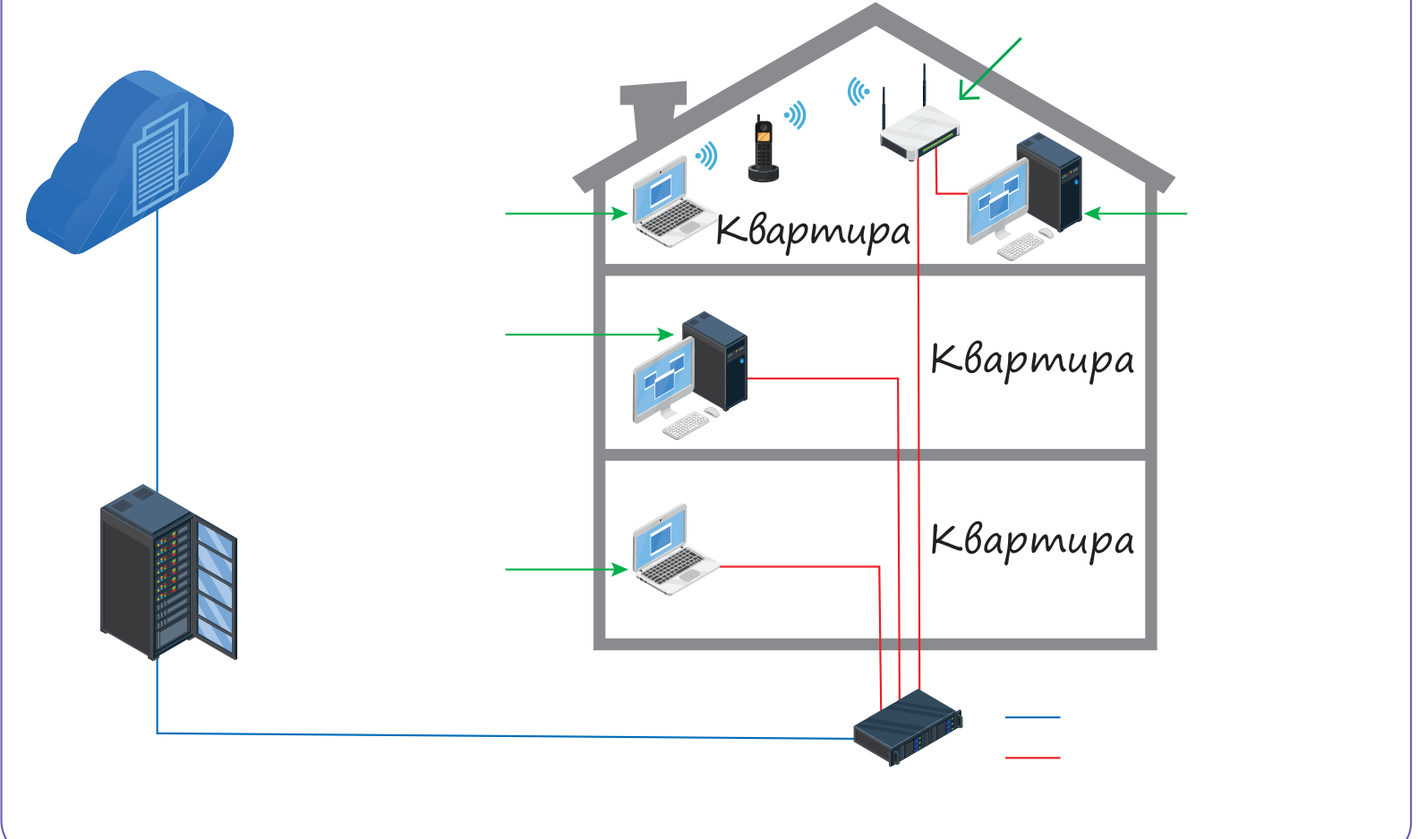
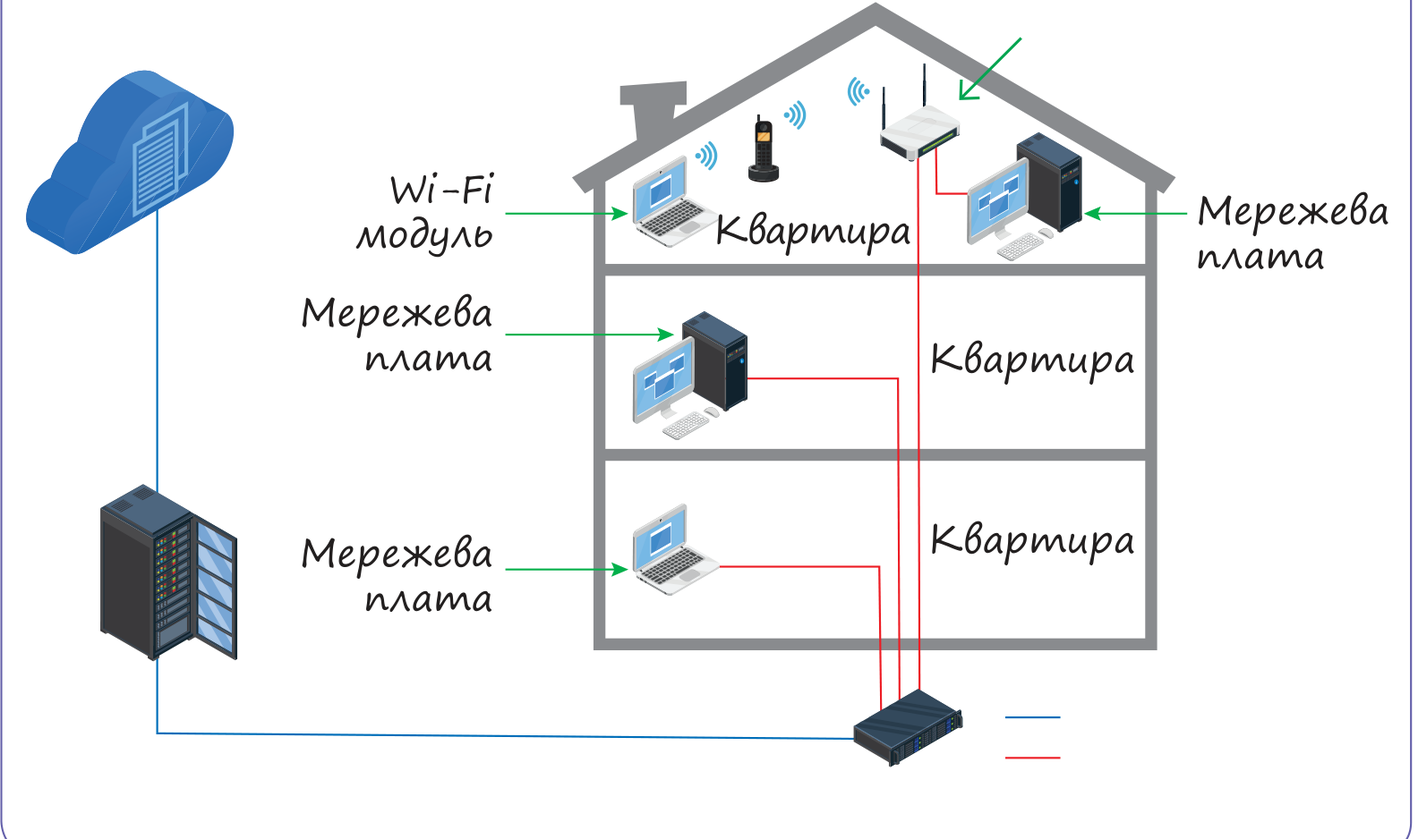
Спростити контрольну для 5 класу
Менше дрібних деталей, прості формулювання, менше варіантів,
схема мережі з підказками, Блискавка без життів і з 15 секундами.

diff --git a/index.html b/index.html
@@ -381,7 +381,7 @@ function confetti() {
 }
 
 /* ===== Стан ===== */
-var DATA_VERSION = '2';
+var DATA_VERSION = '3';
 if (store('imi_ver') !== DATA_VERSION) { try { ['imi_state', 'imi_prog', 'imi_review'].forEach(function (k) { localStorage.removeItem(k); }); } catch (e) {} store('imi_ver', DATA_VERSION); }
 var state = { first: store('imi_first') || '', last: store('imi_last') || '', cls: store('imi_cls') || '', stars: {}, scores: {} };
 try { var saved = JSON.parse(store('imi_state') || '{}'); if (saved && saved.stars) { state.stars = saved.stars; state.scores = saved.scores || {}; } } catch (e) {}
@@ -483,7 +483,7 @@ function showWelcome(msg) {
     if (!first.value.trim() || !last.value.trim() || !cls.value) { err.textContent = 'Заповни ім\'я, прізвище та обери клас, щоб почати місію.'; return; }
     state.first = first.value.trim(); state.last = last.value.trim(); state.cls = cls.value; saveState(); sstore('imi_started', '1'); showMenu();
   }
-  var tips = [['Що це?', 'Контрольна робота з інформатики за § 1–5 підручника: сучасні технології, будова комп\'ютера, інформаційні системи, сигнали й мережі, пошук і перевірка інформації. Це гра з ' + LEVELS.length + ' рівнів на один урок, приблизно 40 хвилин. Сили розподіляй рівномірно.'],
+  var tips = [['Що це?', 'Контрольна робота з інформатики за § 1–5 підручника: сучасні технології, будова комп\'ютера, інформаційні системи, сигнали й мережі, пошук і перевірка інформації. Це гра з ' + LEVELS.length + ' рівнів, розрахована на один урок. Не поспішай і уважно читай завдання.'],
     ['Правила', 'Кожен рівень проходиться лише один раз, повернутися або перепройти його не можна. Якщо браузер закриється або зникне інтернет, відкрий сторінку знову: гра продовжиться з місця зупинки, а зроблені помилки збережуться. Підказок немає, працюй самостійно.'],
     ['Оцінка', 'Коли пройдеш усі рівні, одразу побачиш свою оцінку за 12-бальною шкалою. Результат автоматично потрапить до вчителя й до таблиці лідерів твого класу (там видно лише ім\'я та першу літеру прізвища).'],
     ['Перед стартом', 'Уважно впиши своє ім\'я та прізвище й обери свій клас. Після початку першого рівня змінити їх не можна.']];
@@ -942,13 +942,12 @@ function playStages(done, id, stages) {
 /* § 1. Лабораторія майбутнього */
 var TECH_POOL = ['Штучний інтелект', 'Квантовий комп\'ютер', 'Блокчейн', 'Криптовалюта', 'Ґаджет', 'Валідатор'];
 var TECH = [
-  ['Смартфон розблоковується, коли впізнає обличчя свого власника (FaceID).', 'Штучний інтелект'],
-  ['Працює з найдрібнішими частинками, фотонами та електронами. Кілька математичних задач розв\'язує неймовірно швидко, а для повсякденних справ повільний.', 'Квантовий комп\'ютер'],
-  ['Інформація про всі операції з монетами зв\'язується в «ланцюжок блоків», тому підробити такі гроші неможливо.', 'Блокчейн'],
-  ['Електронні гроші, які не випускає жодна держава. Їх зберігають в електронних «гаманцях», захищених паролем.', 'Криптовалюта'],
-  ['Пристрій у тролейбусі, який перевіряє достовірність твого електронного квитка.', 'Валідатор'],
-  ['Цікава технічна новинка з реальним застосуванням, наприклад фітнес-трекер чи квадрокоптер.', 'Ґаджет'],
-  ['Нейронна мережа навчилася на тисячах прикладів і тепер керує електромобілем на автопілоті.', 'Штучний інтелект']
+  ['Телефон сам впізнає обличчя власника й розблоковується.', 'Штучний інтелект'],
+  ['Дуже потужний комп\'ютер майбутнього, який працює з найдрібнішими частинками — фотонами й електронами.', 'Квантовий комп\'ютер'],
+  ['Технологія, яка записує всі операції з монетами в «ланцюжок блоків», тому їх неможливо підробити.', 'Блокчейн'],
+  ['Електронні гроші, які існують лише в Інтернеті, наприклад біткоїн.', 'Криптовалюта'],
+  ['Пристрій у тролейбусі, який перевіряє твій електронний квиток.', 'Валідатор'],
+  ['Цікава технічна новинка, наприклад фітнес-браслет чи квадрокоптер.', 'Ґаджет']
 ].map(function (t) { return { text: t[0], ok: t[1], opts: [t[1]].concat(others(TECH_POOL, t[1], 3)) }; });
 
 /* § 2. Системний блок (малюнок с. 13) */
@@ -967,151 +966,137 @@ var DEV_ROUNDS = [
   { title: 'Пристрій вводить дані чи виводить їх?', icon: 'screen', cats: ['Пристрої введення', 'Пристрої виведення'], items: [
     ['Клавіатура', 0, 'media/dev-keyboard.jpg'], ['Вебкамера', 0, 'media/dev-webcam.jpg'], ['Сканер', 0, 'media/dev-scanner.jpg'], ['Мікрофон', 0, 'mic'],
     ['Монітор', 1, 'media/dev-monitor.jpg'], ['Принтер', 1, 'media/dev-printer.jpg'], ['Колонки', 1, 'media/dev-speakers.jpg'], ['Навушники', 1, 'media/dev-headphones.jpg']] },
-  { title: 'Яка це пам\'ять?', icon: 'ram', cats: ['Оперативна', 'Постійна', 'Зовнішня'], items: [
-    ['Після вимкнення живлення всі дані з неї стираються', 0], ['Тимчасово зберігає програми, з якими ти зараз працюєш', 0],
-    ['Дані записуються один раз, а зчитуються багато разів', 1], ['Зберігає програму, що запускається відразу після вмикання комп\'ютера', 1],
-    ['Флешка', 2], ['Оптичний диск', 2], ['Вінчестер (жорсткий диск)', 2]] }
+  { title: 'Оперативна пам\'ять чи зовнішня?', icon: 'ram', cats: ['Оперативна пам\'ять', 'Зовнішня пам\'ять'], items: [
+    ['Дані зникають, коли вимкнути комп\'ютер', 0], ['Зберігає програми, з якими ти працюєш саме зараз', 0],
+    ['Флешка', 1], ['Оптичний диск', 1], ['Карта пам\'яті', 1]] }
 ];
 
 /* § 2. Інформаційні системи */
 var PROC = ['Отримання', 'Опрацювання', 'Зберігання', 'Передавання'];
 var SYS_Q = [
   ['Пожежна сигналізація', 'Датчик відчуває дим у кімнаті.', 'Отримання'],
-  ['Пожежна сигналізація', 'Панель керування порівнює кількість диму з нормою і вирішує, що це пожежа.', 'Опрацювання'],
-  ['Пожежна сигналізація', 'Час і місце спрацювання записуються в журнал подій панелі.', 'Зберігання'],
-  ['Пожежна сигналізація', 'Сирена та світлові сповіщувачі попереджають людей про небезпеку.', 'Передавання'],
-  ['Смарт-годинник', 'Акселерометр і гіроскоп фіксують, як рухається людина.', 'Отримання'],
-  ['Смарт-годинник', 'Процесор підраховує, скільки кроків зроблено за день.', 'Опрацювання'],
-  ['Смарт-годинник', 'Годинник пам\'ятає результати тренувань за весь тиждень.', 'Зберігання'],
+  ['Пожежна сигналізація', 'Сигналізація «вирішує»: диму забагато, це пожежа.', 'Опрацювання'],
+  ['Пожежна сигналізація', 'Час спрацювання записується в журнал подій.', 'Зберігання'],
+  ['Пожежна сигналізація', 'Сирена попереджає людей про небезпеку.', 'Передавання'],
+  ['Смарт-годинник', 'Датчики годинника відчувають, як рухається людина.', 'Отримання'],
+  ['Смарт-годинник', 'Годинник підраховує, скільки кроків зроблено за день.', 'Опрацювання'],
+  ['Смарт-годинник', 'Годинник пам\'ятає результати тренувань за тиждень.', 'Зберігання'],
   ['Смарт-годинник', 'Годинник надсилає звіт про тренування на смартфон.', 'Передавання']
 ].map(function (t) { return { head: t[0], text: t[1], ok: t[2], opts: PROC, fixed: true }; });
 var SYS_SORT = [{ title: 'Які це системи?', icon: 'puzzle', cats: ['Біологічні', 'Технічні', 'Соціальні'], items: [['Мурашник', 0], ['Клітина', 0], ['Ноутбук', 1], ['Пожежна сигналізація', 1], ['Шкільний клас', 2], ['Фан-клуб гурту', 2]] }];
 
 /* § 3. Сигнали й канали */
 var SIG_ROUNDS = [
-  { title: 'Яким сигналом передає дані цей канал зв\'язку?', icon: 'wave', cats: ['Спалахи світла', 'Електричні імпульси', 'Радіохвилі'], items: [
-    ['Оптоволоконний кабель', 0], ['Вита пара', 1], ['Коаксіальний кабель', 1], ['ADSL (телефонна лінія)', 1],
-    ['Wi-Fi', 2], ['Bluetooth', 2], ['Супутниковий зв\'язок', 2], ['Мобільний зв\'язок', 2]] },
-  { title: 'Яким органом чуття ми сприймаємо це повідомлення?', icon: 'globe', cats: ['Візуальні', 'Звукові', 'Нюхові', 'Смакові', 'Тактильні'], items: [
+  { title: 'Що передає дані в цьому каналі зв\'язку?', icon: 'wave', cats: ['Світло', 'Електричний струм', 'Радіохвилі'], items: [
+    ['Оптоволоконний кабель', 0], ['Вита пара (мережевий кабель)', 1], ['Wi-Fi', 2], ['Bluetooth', 2], ['Мобільний зв\'язок', 2]] },
+  { title: 'Яким органом чуття ми сприймаємо це повідомлення?', icon: 'globe', cats: ['Зір', 'Слух', 'Нюх', 'Смак', 'Дотик'], items: [
     ['Спів птахів', 1], ['Жест «Увага!»', 0], ['Сигнал світлофора', 0], ['Солоний смак супу', 3], ['Запах свіжого хліба', 2], ['Шорстка кора дерева під пальцями', 4]] }
 ];
 
 /* § 3. Збудуй мережу (схема с. 34, фото с. 30) */
-var LAN = { img: 'media/lan-scheme.png', alt: 'Схема локальної мережі в будинку з підключенням до Інтернету, підписи прибрано', q: 'Схема мережі, позначка',
+var LAN = { img: 'media/lan-scheme.png', alt: 'Схема локальної мережі в будинку з підключенням до Інтернету, частину підписів прибрано', q: 'Схема мережі, позначка',
   caption: 'Схема «Приклад організації локальної мережі з підключенням до інтернету», підручник, § 3, с. 34',
-  lead: 'З підписів на схемі з підручника зникли слова. Поверни їх на місце! Один підпис можна використати кілька разів, а деякі підписи зайві.',
+  lead: 'Зі схеми з підручника зникли шість підписів. Поверни їх на місце! Два підписи зайві.',
   slots: [
-    { x: 11.1, y: 6, ans: 'Інтернет' }, { x: 85.7, y: 6, ans: 'Модем із Wi-Fi-роутером' }, { x: 30.4, y: 25.1, ans: 'Wi-Fi-модуль', lp: 'l' },
-    { x: 91.7, y: 27.8, ans: 'Мережева плата' }, { x: 28.4, y: 39.8, ans: 'Мережева плата', lp: 'l' }, { x: 28.4, y: 68.7, ans: 'Мережева плата', lp: 'l' },
-    { x: 19.1, y: 82.4, ans: 'Провайдер' }, { x: 58.3, y: 94, ans: 'Комутатор', lp: 'r' }, { x: 40, y: 90, ans: 'Оптоволокно', lp: 't' }, { x: 64.6, y: 56, ans: 'Вита пара', lp: 'r' }],
-  bank: ['Інтернет', 'Провайдер', 'Комутатор', 'Модем із Wi-Fi-роутером', 'Wi-Fi-модуль', 'Мережева плата', 'Оптоволокно', 'Вита пара', 'Сканер', 'Коаксіальний кабель', 'Блок живлення'] };
-var NET_POOL = ['Мережева плата', 'Комутатор', 'Модем', 'Wi-Fi-адаптер', 'Мережевий кабель'];
+    { x: 11.1, y: 6, ans: 'Інтернет' }, { x: 85.7, y: 6, ans: 'Модем із Wi-Fi-роутером' }, { x: 19.1, y: 82.4, ans: 'Провайдер' },
+    { x: 58.3, y: 94, ans: 'Комутатор', lp: 'r' }, { x: 40, y: 90, ans: 'Оптоволокно', lp: 't' }, { x: 64.6, y: 56, ans: 'Вита пара', lp: 'r' }],
+  bank: ['Інтернет', 'Провайдер', 'Комутатор', 'Модем із Wi-Fi-роутером', 'Оптоволокно', 'Вита пара', 'Сканер', 'Принтер'] };
+var NET_POOL = ['Мережева плата', 'Комутатор', 'Мережевий кабель'];
 var NET_Q = [
-  ['net-nic', 'Мережева плата'], ['net-switch', 'Комутатор'], ['net-modem', 'Модем'], ['net-wifi', 'Wi-Fi-адаптер'], ['net-cable', 'Мережевий кабель']
-].map(function (t) { return { head: 'Впізнай обладнання на фото з підручника (с. 30)', img: 'media/' + t[0] + '.jpg', alt: 'Мережеве обладнання', text: 'Що це за пристрій?', ok: t[1], opts: [t[1]].concat(others(NET_POOL, t[1], 3)) }; })
+  ['net-nic', 'Мережева плата'], ['net-switch', 'Комутатор'], ['net-cable', 'Мережевий кабель']
+].map(function (t) { return { head: 'Впізнай обладнання на фото з підручника (с. 30)', img: 'media/' + t[0] + '.jpg', alt: 'Мережеве обладнання', text: 'Що це?', ok: t[1], opts: NET_POOL }; })
 .concat([
   ['Смартфон з\'єднано з бездротовими навушниками.', 'Персональна'],
   ['Комп\'ютери шкільного кабінету інформатики з\'єднані між собою.', 'Локальна'],
   ['Мережа об\'єднує школи й бібліотеки одного міста.', 'Міська'],
-  ['Мережа охоплює території багатьох країн і континентів.', 'Глобальна']
+  ['Мережа охоплює весь світ.', 'Глобальна']
 ].map(function (t) { return { head: 'Яка це мережа за територією?', text: t[0], ok: t[1], opts: ['Персональна', 'Локальна', 'Міська', 'Глобальна'], fixed: true }; }));
 
 /* § 1–3. Машина часу */
 var TIME_ROUNDS = [
-  { title: 'Від найдавнішої події до найновішої', icon: 'clock', how: 'Спершу натисни найдавнішу подію, наприкінці найновішу.', items: [
-    { t: 'Шість жінок програмують перший електронний комп\'ютер ENIAC' }, { t: 'Відкривається перший у світі комерційний центр опрацювання даних (дата-центр)' },
-    { t: 'Народжується український Інтернет: з\'являється домен .UA' }, { t: 'В Україні починають впроваджувати мобільний інтернет 4G' }, { t: 'Запускають першу групу супутників Starlink' }] },
-  { title: 'Від найповільнішого мобільного інтернету до найшвидшого', icon: 'phone', how: 'Значок у смартфоні показує технологію передавання даних.', items: [
-    { big: 'E', t: 'Значок E' }, { big: '3G', t: 'Значок 3G' }, { big: 'H+', t: 'Значок H+' }, { big: '4G', t: 'Значок 4G' }, { big: '5G', t: 'Значок 5G' }] },
-  { title: 'Як змінювалися комп\'ютери (схема на с. 22)', icon: 'cpu', how: 'Від найстаріших до найсучасніших.', items: [
-    { t: 'Великі комп\'ютери завбільшки з шафу' }, { t: 'Настільні персональні комп\'ютери' }, { t: 'Ноутбуки' }, { t: 'Смартфони' }] }
+  { title: 'Як змінювалися комп\'ютери (схема на с. 22)', icon: 'cpu', how: 'Спершу натисни найстаріші, наприкінці найсучасніші.', items: [
+    { t: 'Великі комп\'ютери завбільшки з шафу' }, { t: 'Настільні персональні комп\'ютери' }, { t: 'Ноутбуки' }, { t: 'Смартфони' }] },
+  { title: 'Від найповільнішого мобільного інтернету до найшвидшого', icon: 'phone', how: 'Такі значки показує смартфон поруч зі смужками зв\'язку.', items: [
+    { big: 'E', t: 'Значок E' }, { big: '3G', t: 'Значок 3G' }, { big: '4G', t: 'Значок 4G' }, { big: '5G', t: 'Значок 5G' }] }
 ];
 
 /* § 4. Пошуковий детектив */
 var SEARCH_ORDER = [
-  { title: 'Шлях вебсторінки: що відбувається після введення адреси?', icon: 'browser', how: 'Від першого кроку до останнього.', items: [
-    { t: 'Ти вводиш адресу вебсторінки в рядок браузера' }, { t: 'DNS перетворює адресу на цифрову' }, { t: 'Запит потрапляє на потрібний вебсервер' },
-    { t: 'Вебсервер видає потрібний документ' }, { t: 'Браузер показує вебсторінку на екрані' }] },
-  { title: 'Алгоритм пошуку інформації', icon: 'magnifier', how: 'Від першого кроку до останнього.', items: [
-    { t: 'Сформулювати ключові слова' }, { t: 'Увести їх у поле пошукового запиту' }, { t: 'Натиснути кнопку «Пошук» або Enter' },
-    { t: 'Переглянути описи посилань у списку' }, { t: 'Відкрити потрібне посилання або уточнити запит' }] }
+  { title: 'Що відбувається, коли ти відкриваєш сайт?', icon: 'browser', how: 'Від першого кроку до останнього.', items: [
+    { t: 'Ти вводиш адресу сайту в браузері' }, { t: 'DNS перетворює назву сайту на цифрову адресу' }, { t: 'Запит потрапляє на вебсервер' },
+    { t: 'Вебсервер надсилає потрібну сторінку' }, { t: 'Браузер показує сторінку на екрані' }] },
+  { title: 'Як шукати інформацію в Інтернеті', icon: 'magnifier', how: 'Від першого кроку до останнього.', items: [
+    { t: 'Придумати ключові слова' }, { t: 'Ввести їх у рядок пошуку' }, { t: 'Натиснути «Пошук» або Enter' }, { t: 'Переглянути результати й відкрити потрібне посилання' }] }
 ];
 var SEARCH_Q = [
-  { head: 'Обери найкращий пошуковий запит', view: 'query', text: 'Треба знайти сторінки з точною фразою: Ніколи не соромся запитувати про те, чого не знаєш.', ok: '"Ніколи не соромся запитувати"', opts: ['"Ніколи не соромся запитувати"', 'Ніколи не соромся запитувати', 'соромся', 'Ніколи -соромся'] },
-  { head: 'Обери найкращий пошуковий запит', view: 'query', text: 'Потрібні сторінки, на яких обов\'язково є обидва слова: «комп\'ютер» і «лопата».', ok: '+комп\'ютер +лопата', opts: ['+комп\'ютер +лопата', 'комп\'ютер -лопата', 'лопата', '-комп\'ютер -лопата'] },
-  { head: 'Обери найкращий пошуковий запит', view: 'query', text: 'Тобі цікава тварина ягуар, а сторінки про автомобілі «Ягуар» заважають.', ok: 'ягуар тварина -автомобіль', opts: ['ягуар тварина -автомобіль', 'ягуар', 'ягуар +автомобіль', '"ягуар автомобіль"'] },
-  { head: 'Розбери адресу сайту на домени', view: 'addr', fixed: true, text: 'Натисни домен 1-го рівня (кореневий).', ok: 'ua', opts: ['wiki', 'hosting', 'ua'] },
-  { head: 'Розбери адресу сайту на домени', view: 'addr', fixed: true, text: 'Натисни домен 2-го рівня.', ok: 'hosting', opts: ['wiki', 'hosting', 'ua'] },
-  { head: 'Розбери адресу сайту на домени', view: 'addr', fixed: true, text: 'Натисни домен 3-го рівня.', ok: 'wiki', opts: ['wiki', 'hosting', 'ua'] },
-  { head: 'Розберися в термінах', text: 'Google Chrome, Mozilla Firefox, Opera, Safari, Edge — це…', ok: 'Браузери', opts: ['Браузери', 'Пошукові системи', 'Вебсервери', 'Провайдери'] },
-  { head: 'Розберися в термінах', text: 'Як називається програма, яка постійно збирає дані з усього Інтернету для пошукової служби?', ok: 'Пошуковий робот (павук)', opts: ['Пошуковий робот (павук)', 'Індексатор', 'Браузер', 'Вебінтерфейс'] },
-  { head: 'Розберися в термінах', text: 'Сайт має домен .gov. Що це за ресурс?', ok: 'Державний', opts: ['Державний', 'Освітній', 'Комерційний', 'Розважальний'] },
-  { head: 'Розберися в термінах', text: 'Хто в Інтернеті надсилає запити, а хто їх виконує?', ok: 'Клієнт надсилає, сервер виконує', opts: ['Клієнт надсилає, сервер виконує', 'Сервер надсилає, клієнт виконує', 'Браузер надсилає, провайдер виконує', 'Роутер надсилає, комутатор виконує'] }
+  { head: 'Обери найкращий пошуковий запит', view: 'query', text: 'Треба знайти точну фразу: Ніколи не соромся запитувати.', ok: '"Ніколи не соромся запитувати"', opts: ['"Ніколи не соромся запитувати"', 'Ніколи не соромся запитувати', 'соромся'] },
+  { head: 'Обери найкращий пошуковий запит', view: 'query', text: 'На сторінці обов\'язково мають бути обидва слова: «комп\'ютер» і «лопата».', ok: '+комп\'ютер +лопата', opts: ['+комп\'ютер +лопата', 'комп\'ютер -лопата', 'лопата'] },
+  { head: 'Обери найкращий пошуковий запит', view: 'query', text: 'Тобі потрібна тварина ягуар, а не автомобіль «Ягуар».', ok: 'ягуар тварина -автомобіль', opts: ['ягуар тварина -автомобіль', 'ягуар +автомобіль', 'ягуар'] },
+  { head: 'Адреса сайту', view: 'addr', fixed: true, text: 'Натисни частину адреси, яка показує, що сайт український (домен 1-го рівня).', ok: 'ua', opts: ['wiki', 'hosting', 'ua'] },
+  { head: 'Розберися в термінах', text: 'Google Chrome, Firefox, Opera, Safari — це…', ok: 'Браузери', opts: ['Браузери', 'Пошукові системи', 'Провайдери'] },
+  { head: 'Розберися в термінах', text: 'Сайт має домен .gov. Що це за сайт?', ok: 'Державний', opts: ['Державний', 'Освітній', 'Розважальний'] },
+  { head: 'Розберися в термінах', text: 'Хто в Інтернеті надсилає запити, а хто їх виконує?', ok: 'Клієнт надсилає, сервер виконує', opts: ['Клієнт надсилає, сервер виконує', 'Сервер надсилає, клієнт виконує'] }
 ];
 
 /* § 5. Фейк-детектор */
+var INFO_OPTS = ['Застаріла', 'Неповна', 'Неправдива', 'Лише чиясь думка'];
 var FAKE_Q = [
-  { head: 'Знайди тривожні сигнали в дописі (с. 62)', view: 'post', multi: true, pts: 4, fixed: true,
-    text: 'Познач усі частини допису, які мають насторожити. Звичайні речення не позначай: за кожну помилку мінус бал.',
-    ok: ['Увага! Максимальний перепост!!!', 'Чи знаєте ви, що у світі залишилося всього 800 деревних восьминогів, які живуть на деревах?', 'Усі небайдужі можуть допомогти: перерахуйте гроші на благодійний рахунок 0000 0000 0000 0000.', 'Автор допису та дата публікації не вказані.'],
-    opts: ['Увага! Максимальний перепост!!!', 'Чи знаєте ви, що у світі залишилося всього 800 деревних восьминогів, які живуть на деревах?', 'Восьминоги належать до молюсків.', 'Усі небайдужі можуть допомогти: перерахуйте гроші на благодійний рахунок 0000 0000 0000 0000.', 'Ми відповідальні за нашу планету і тих, хто на ній мешкає.', 'Автор допису та дата публікації не вказані.'] },
-  { head: 'Як перевірити, чи інформація достовірна?', multi: true, pts: 3, text: 'Обери всі правильні способи перевірки. За кожну помилку мінус бал.',
-    ok: ['Перевірити інформацію в інших джерелах', 'З\'ясувати, хто автор і коли опубліковано', 'Звернути увагу на домен сайту (.gov, .edu, .com)'],
-    opts: ['Перевірити інформацію в інших джерелах', 'З\'ясувати, хто автор і коли опубліковано', 'Звернути увагу на домен сайту (.gov, .edu, .com)', 'Порахувати, скільки людей вподобали допис', 'Одразу переслати друзям, хай вони перевірять', 'Повірити, бо написано великими літерами'] },
-  { head: 'Судова справа (с. 55): факт чи судження?', fixed: true, text: 'Прокурор: «Маю відео з камер спостереження, яке зафіксувало злочинця та його дії».', ok: 'Факт', opts: ['Факт', 'Судження'] },
+  { head: 'Знайди підозрілі місця в дописі (с. 62)', view: 'post', multi: true, pts: 4, fixed: true,
+    text: 'Познач усі підозрілі частини допису. Звичайні речення не позначай: за кожну помилку мінус бал.',
+    ok: ['Увага! Максимальний перепост!!!', 'Чи знаєте ви, що у світі залишилося всього 800 восьминогів, які живуть на деревах?', 'Усі небайдужі можуть допомогти: перерахуйте гроші на рахунок 0000 0000 0000 0000.', 'Автор допису та дата не вказані.'],
+    opts: ['Увага! Максимальний перепост!!!', 'Чи знаєте ви, що у світі залишилося всього 800 восьминогів, які живуть на деревах?', 'Восьминоги належать до молюсків.', 'Усі небайдужі можуть допомогти: перерахуйте гроші на рахунок 0000 0000 0000 0000.', 'Ми відповідальні за нашу планету.', 'Автор допису та дата не вказані.'] },
+  { head: 'Як перевірити, чи інформація правдива?', multi: true, pts: 2, text: 'Обери всі правильні способи. За кожну помилку мінус бал.',
+    ok: ['Пошукати цю інформацію в інших джерелах', 'Подивитися, хто автор і коли це написано'],
+    opts: ['Пошукати цю інформацію в інших джерелах', 'Подивитися, хто автор і коли це написано', 'Порахувати, скільки людей вподобали допис', 'Повірити, бо написано великими літерами'] },
+  { head: 'Судова справа (с. 55): факт чи судження?', fixed: true, text: 'Прокурор: «Маю відео з камер спостереження, яке зафіксувало злочинця».', ok: 'Факт', opts: ['Факт', 'Судження'] },
   { head: 'Судова справа (с. 55): факт чи судження?', fixed: true, text: 'Брат підсудного: «Підсудний — гарна людина».', ok: 'Судження', opts: ['Факт', 'Судження'] },
-  { head: 'Судова справа (с. 55): факт чи судження?', fixed: true, text: 'Адвокат: «Підсудний раніше не скоював протизаконних учинків».', ok: 'Факт', opts: ['Факт', 'Судження'] },
-  { head: 'Судова справа (с. 55): факт чи судження?', fixed: true, text: 'Глядач у залі: «Цей суддя найсправедливіший у світі».', ok: 'Судження', opts: ['Факт', 'Судження'] },
-  { head: 'Чого бракує цій інформації?', fixed: true, text: 'Прогноз погоди на вчорашній день.', ok: 'Актуальності', opts: ['Актуальності', 'Повноти', 'Достовірності', 'Об\'єктивності'] },
-  { head: 'Чого бракує цій інформації?', fixed: true, text: 'Рецепт торта, у якому не написано, скільки брати борошна й цукру.', ok: 'Повноти', opts: ['Актуальності', 'Повноти', 'Достовірності', 'Об\'єктивності'] },
-  { head: 'Чого бракує цій інформації?', fixed: true, text: '«Закопай монетку ввечері, а вранці тут буде ціле поле грошей!»', ok: 'Достовірності', opts: ['Актуальності', 'Повноти', 'Достовірності', 'Об\'єктивності'] },
-  { head: 'Чого бракує цій інформації?', fixed: true, text: 'Режисер про власний фільм: «Це найкращий фільм в історії кіно!»', ok: 'Об\'єктивності', opts: ['Актуальності', 'Повноти', 'Достовірності', 'Об\'єктивності'] }
+  { head: 'Судова справа (с. 55): факт чи судження?', fixed: true, text: 'Глядач у залі: «Цей суддя найкращий у світі».', ok: 'Судження', opts: ['Факт', 'Судження'] },
+  { head: 'Яка це інформація?', fixed: true, text: 'Прогноз погоди на вчорашній день.', ok: 'Застаріла', opts: INFO_OPTS },
+  { head: 'Яка це інформація?', fixed: true, text: 'Рецепт торта, у якому не написано, скільки брати борошна й цукру.', ok: 'Неповна', opts: INFO_OPTS },
+  { head: 'Яка це інформація?', fixed: true, text: '«Закопай монетку ввечері, а вранці виросте ціле поле грошей!»', ok: 'Неправдива', opts: INFO_OPTS },
+  { head: 'Яка це інформація?', fixed: true, text: 'Режисер про власний фільм: «Це найкращий фільм в історії кіно!»', ok: 'Лише чиясь думка', opts: INFO_OPTS }
 ];
 
 /* § 1–5. Бос: Блискавка */
-var BLITZ_SEC = 10;
+var BLITZ_SEC = 15, BLITZ_N = 10;
 var BLITZ = [
-  ['Wi-Fi роутери працюють на частотах 2,4 і 5 ГГц.', true],
-  ['На частоті 5 ГГц Wi-Fi передає дані швидше, але на меншу відстань, ніж на 2,4 ГГц.', true],
+  ['Wi-Fi — це бездротовий зв\'язок.', true],
   ['Всесвітня павутина WWW та Інтернет — це одне й те саме.', false],
-  ['Штучний інтелект може мати почуття, як людина.', false],
-  ['Біткоїн — найперша і найпопулярніша криптовалюта.', true],
-  ['Після вимкнення живлення дані з оперативної пам\'яті зникають.', true],
+  ['Штучний інтелект має почуття, як людина.', false],
+  ['Біткоїн — це криптовалюта.', true],
+  ['Коли вимкнути комп\'ютер, дані з оперативної пам\'яті зникають.', true],
   ['Браузер — це пошукова система.', false],
-  ['Роутер має вбудовану пам\'ять, тому його можна назвати мінікомп\'ютером.', true],
-  ['Супутниковий зв\'язок забезпечує більшість телекомунікацій у світі.', false],
-  ['Технологія 5G приблизно у 20 разів швидша за 4G.', true],
+  ['Провайдер — компанія, яка надає доступ до Інтернету.', true],
   ['Якщо малюнок знайдено в Інтернеті, під ним можна поставити своє ім\'я.', false],
-  ['Блок живлення перетворює напругу 220 В на меншу, потрібну всередині комп\'ютера.', true],
-  ['Bluetooth з\'єднує пристрої на великій відстані, наприклад між містами.', false],
-  ['Найстаріша служба Інтернету, яка досі популярна, — електронна пошта.', true]
+  ['Флешка зберігає дані навіть без живлення.', true],
+  ['Bluetooth з\'єднує пристрої в різних містах.', false],
+  ['Електронна пошта — одна зі служб Інтернету.', true],
+  ['Усе, що написано в Інтернеті, — правда.', false]
 ];
 function playBlitz(done, id, title) {
-  var P = getProg(id) || { ids: shuffle(BLITZ.map(function (x, k) { return k; })).slice(0, 10), i: 0, score: 0, lives: 3, open: false, rows: [] };
+  var P = getProg(id) || { ids: shuffle(BLITZ.map(function (x, k) { return k; })).slice(0, BLITZ_N), i: 0, score: 0, open: false, rows: [] };
   if (!P.rows) P.rows = [];
-  if (P.open) { var pq = BLITZ[P.ids[P.i]]; P.rows.push({ q: pq[0], mine: 'сторінку оновлено', right: pq[1] ? 'Правда' : 'Неправда', ok: false }); P.lives--; P.i++; P.open = false; }
-  var qs = P.ids.map(function (k) { return BLITZ[k]; }), i = P.i, score = P.score, lives = P.lives, locked = false, left, box = h('div');
+  if (P.open) { var pq = BLITZ[P.ids[P.i]]; P.rows.push({ q: pq[0], mine: 'сторінку оновлено', right: pq[1] ? 'Правда' : 'Неправда', ok: false }); P.i++; P.open = false; }
+  var qs = P.ids.map(function (k) { return BLITZ[k]; }), i = P.i, score = P.score, locked = false, left, box = h('div');
   setProg(id, P);
-  function end() { stopTimers(); P.i = qs.length; setProg(id, P); saveReview(id, P.rows); done(score); }
-  function next() { i++; P.i = i; P.score = score; P.lives = lives; P.open = false; setProg(id, P); if (i >= qs.length || lives <= 0) end(); else show(); }
+  function end() { stopTimers(); saveReview(id, P.rows); done(score); }
+  function next() { i++; P.i = i; P.score = score; P.open = false; setProg(id, P); if (i >= qs.length) end(); else show(); }
   function show() {
     stopTimers(); locked = false; left = BLITZ_SEC; P.open = true; setProg(id, P);
     var q = qs[i], bar = h('i'), fb = h('div', { class: 'fb', 'aria-live': 'polite' });
     function answer(val, timeout) {
-      if (locked) return; locked = true; stopTimers(); var ok = !timeout && val === q[1]; if (ok) score++; else lives--;
-      P.rows.push({ q: q[0], mine: timeout ? 'час вийшов' : (val ? 'Правда' : 'Неправда'), right: q[1] ? 'Правда' : 'Неправда', ok: ok }); P.score = score; P.lives = lives; P.open = false; setProg(id, P);
-      fb.textContent = timeout ? 'Час вийшов.' : 'Відповідь прийнято.'; setTimeout(next, 700);
+      if (locked) return; locked = true; stopTimers(); var ok = !timeout && val === q[1]; if (ok) score++;
+      P.rows.push({ q: q[0], mine: timeout ? 'час вийшов' : (val ? 'Правда' : 'Неправда'), right: q[1] ? 'Правда' : 'Неправда', ok: ok }); P.score = score; P.open = false; setProg(id, P);
+      fb.textContent = timeout ? 'Час вийшов.' : 'Відповідь прийнято.'; setTimeout(next, 600);
     }
-    var hearts = h('span', { class: 'hearts', 'aria-label': 'Життів: ' + lives });
-    for (var k = 0; k < 3; k++) hearts.appendChild(h('span', { class: k < lives ? 'on' : '', text: '♥' }));
     box.innerHTML = '';
-    [h('div', { class: 'row', style: 'justify-content:space-between' }, [h('span', { class: 'muted', text: 'Питання ' + (i + 1) + ' з ' + qs.length + '. Правильно: ' + score }), hearts]),
+    [h('div', { class: 'muted', text: 'Питання ' + (i + 1) + ' з ' + qs.length }),
      h('div', { class: 'bar' }, [bar]), h('div', { class: 'card bigq' }, [ico('bolt', 'lg', '#fb923c'), h('span', { text: q[0] })]),
      h('div', { class: 'row' }, [h('button', { class: 'btn ok', style: 'flex:1', text: 'Правда', onclick: function () { answer(true, false); } }), h('button', { class: 'btn bad', style: 'flex:1', text: 'Неправда', onclick: function () { answer(false, false); } })]), fb].forEach(function (n) { box.appendChild(n); });
     timers.push(setInterval(function () { left -= 0.1; bar.style.width = Math.max(0, left / BLITZ_SEC * 100) + '%'; if (left <= 0) answer(null, true); }, 100));
   }
-  if (i >= qs.length || lives <= 0) { saveReview(id, P.rows); done(score); return; }
-  render([levelTop(title), h('p', { class: 'lead', text: 'На кожне твердження ' + BLITZ_SEC + ' секунд і три життя на весь рівень. Якщо оновити сторінку, поточне питання зарахується як помилка.' }), box]); show();
+  if (i >= qs.length) { saveReview(id, P.rows); done(score); return; }
+  render([levelTop(title), h('p', { class: 'lead', text: 'На кожне твердження ' + BLITZ_SEC + ' секунд. Встигни відповісти: правда це чи ні. Якщо оновити сторінку, поточне питання зарахується як помилка.' }), box]); show();
 }
 
 /* ===================== СПИСОК РІВНІВ ===================== */
@@ -1132,7 +1117,7 @@ var LEVELS = [
     run: function (done) { playStages(done, 'network', [
       function (d, id, part) { playLabel(d, id, 'Збудуй мережу', LAN, part); },
       function (d, id, part) { playChoiceList(d, id, 'Збудуй мережу', 'Мережу зібрано! Тепер перевір, чи впізнаєш обладнання і чи розрізняєш види мереж.', choiceBuild(NET_Q), part); }]); } },
-  { id: 'time', title: 'Машина часу', par: '§ 1–3', sub: 'Події та швидкості по порядку', icon: 'clock', color: '#f472b6', max: sumOrder(TIME_ROUNDS),
+  { id: 'time', title: 'Машина часу', par: '§ 2–3', sub: 'Від старих технологій до нових', icon: 'clock', color: '#f472b6', max: sumOrder(TIME_ROUNDS),
     run: function (done) { playOrder(done, 'time', 'Машина часу', TIME_ROUNDS); } },
   { id: 'search', title: 'Пошуковий детектив', par: '§ 4', sub: 'Шлях запиту, пошук, домени', icon: 'magnifier', color: '#c084fc', max: sumOrder(SEARCH_ORDER) + sumPts(SEARCH_Q),
     run: function (done) { playStages(done, 'search', [
@@ -1140,7 +1125,7 @@ var LEVELS = [
       function (d, id, part) { playChoiceList(d, id, 'Пошуковий детектив', 'Покажи, що вмієш шукати інформацію: склади влучний запит і розберися в адресах сайтів.', choiceBuild(SEARCH_Q), part); }]); } },
   { id: 'fake', title: 'Фейк-детектор', par: '§ 5', sub: 'Факти, судження, достовірність', icon: 'shield', color: '#34d399', max: sumPts(FAKE_Q),
     run: function (done) { playChoiceList(done, 'fake', 'Фейк-детектор', 'Перевір інформацію як справжній детектив: не все, що поширюють тисячі людей, є правдою.', choiceBuild(FAKE_Q)); } },
-  { id: 'blitz', title: 'Бос: Блискавка', par: '§ 1–5', sub: 'Правда чи ні на швидкість', icon: 'bolt', color: '#fb923c', max: 10,
+  { id: 'blitz', title: 'Бос: Блискавка', par: '§ 1–5', sub: 'Правда чи ні на швидкість', icon: 'bolt', color: '#fb923c', max: BLITZ_N,
     run: function (done) { playBlitz(done, 'blitz', 'Бос: Блискавка'); } }
 ];
 
